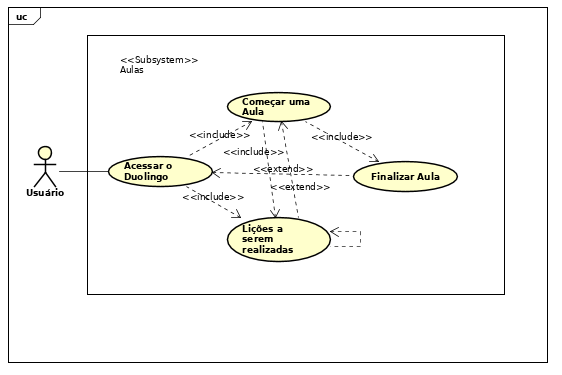
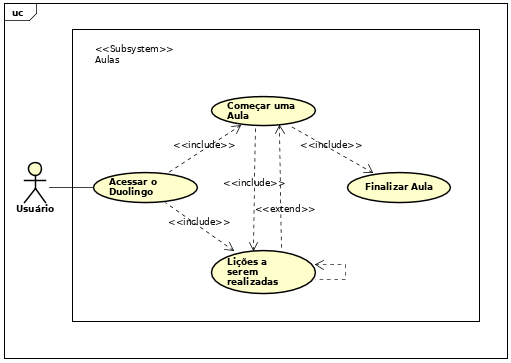
corrigido erros de formatação nos documentos de modelagem

Changed region(s): [[0.0, 0.0, 0.998, 1.0], [0.91, 0.8788, 0.9393, 0.9091], [0.91, 0.0606, 0.9393, 0.0909]]

diff --git a/docs/modelagem/Lexicos.md b/docs/modelagem/Lexicos.md
@@ -7,7 +7,7 @@ Trata-se de uma técnica que procura descrever símbolos de uma determinada ling
 Para definir os léxicos o grupo utilizou o seguinte modelo de _cards_ mostrado abaixo.
 
 |**LXX**|_Nome do Léxico._|
-|---|---|
+|:---:|:---:|
 |**Autor**|_Autor(es) do Léxico._|
 |**Classificação**|_Classificação do léxico (estado, objeto ou verbo)._|
 |**Sinônimos**|_Sinônimos do léxico no contexto._|
@@ -17,7 +17,7 @@ Para definir os léxicos o grupo utilizou o seguinte modelo de _cards_ mostrado 
 
 ## Léxico01
 |L01|Usuário|
-|---|---|
+|:---:|:---:|
 |**Autor**|Francisco Heronildo|
 |**Classificação**|--|
 |**Sinônimos**|Utilizador, utente, cliente, usador, usufruidor, desfrutador, usufrutuário, usufrutueiro.|
@@ -29,7 +29,7 @@ Para definir os léxicos o grupo utilizou o seguinte modelo de _cards_ mostrado 
 
 ## Léxico02
 |L02|Nível|
-|---|---|
+|:---:|:---:|
 |**Autor**|Lude Ribeiro|
 |**Classificação**|Estado|
 |**Sinônimos**|classe, categoria, posição, grau.|
@@ -40,7 +40,7 @@ Para definir os léxicos o grupo utilizou o seguinte modelo de _cards_ mostrado 
 
 ## Léxico03
 |L03|Curso|
-|---|---|
+|:---:|:---:|
 |**Autor**|Lude Ribeiro|
 |**Classificação**|Objeto|
 |**Sinônimos**|aula, formação|
@@ -51,7 +51,7 @@ Para definir os léxicos o grupo utilizou o seguinte modelo de _cards_ mostrado 
 
 ## Léxico04
 |L04|Ligas|
-|---|---|
+|:---:|:---:|
 |**Autor**|Lude Ribeiro|
 |**Classificação**|Objeto|
 |**Sinônimos**|campeonatos, competição|
@@ -63,7 +63,7 @@ Para definir os léxicos o grupo utilizou o seguinte modelo de _cards_ mostrado 
 
 ## Léxico05
 |L05|Amigos|
-|---|---|
+|:---:|:---:|
 |**Autor**|Lude Ribeiro|
 |**Classificação**|--|
 |**Sinônimos**|galera, gente, turma, relações, amizades, conhecidos.|
@@ -74,7 +74,7 @@ Para definir os léxicos o grupo utilizou o seguinte modelo de _cards_ mostrado 
 
 ## Léxico06
 |L06|Seção|
-|---|---|
+|:---:|:---:|
 |**Autor**|Lude Ribeiro|
 |**Classificação**|Objeto|
 |**Sinônimos**|Divisão, fracionamento, secionamento, parcela, parte, subdivisão|
@@ -85,7 +85,7 @@ Para definir os léxicos o grupo utilizou o seguinte modelo de _cards_ mostrado 
 
 ## Léxico07
 |L07|Perfil|
-|---|---|
+|:---:|:---:|
 |**Autor**|Lude Ribeiro|
 |**Classificação**|Objeto|
 |**Sinônimos**|Representação, retrato, descrição|
@@ -98,7 +98,7 @@ Para definir os léxicos o grupo utilizou o seguinte modelo de _cards_ mostrado 
 
 ## Léxico08
 |L08|Exercício|
-|---|---|
+|:---:|:---:|
 |**Autor**|Lude Ribeiro|
 |**Classificação**|Objeto|
 |**Sinônimos**|Atividade, dever, estudo, tarefa.|
@@ -108,7 +108,7 @@ Para definir os léxicos o grupo utilizou o seguinte modelo de _cards_ mostrado 
 
 ## Léxico09
 |L09|Cristais|
-|---|---|
+|:---:|:---:|
 |**Autor**|Brian Lui|
 |**Classificação**|Objeto|
 |**Sinônimos**|Dinheiro Virtual, Moeda Virtual, cédula, nota, ouro, prata.|
@@ -119,7 +119,7 @@ Para definir os léxicos o grupo utilizou o seguinte modelo de _cards_ mostrado 
 
 ## Léxico10
 |L10|XP|
-|---|---|
+|:---:|:---:|
 |**Autor**|Brian Lui|
 |**Classificação**|Estado|
 |**Sinônimos**|Experiência, pontos.|
@@ -130,7 +130,7 @@ Para definir os léxicos o grupo utilizou o seguinte modelo de _cards_ mostrado 
 
 ## Léxico11
 |L11|Ofensiva|
-|---|---|
+|:---:|:---:|
 |**Autor**|Brian Lui|
 |**Classificação**|Estado|
 |**Sinônimos**|Insígnia, emblema, distintivo, marca.|
@@ -141,7 +141,7 @@ Para definir os léxicos o grupo utilizou o seguinte modelo de _cards_ mostrado 
 
 ## Léxico12
 |L12|Nível de Coroa|
-|---|---|
+|:---:|:---:|
 |**Autor**|Brian Lui|
 |**Classificação**|Estado|
 |**Sinônimos**|Recurso, Nível, Categoria, Classe.|
@@ -157,7 +157,7 @@ Para definir os léxicos o grupo utilizou o seguinte modelo de _cards_ mostrado 
 
 ## Léxico13
 |L13|Lingot|
-|---|---|
+|:---:|:---:|
 |**Autor**|Brian Lui|
 |**Classificação**|Objeto|
 |**Sinônimos**|Moeda, Dinheiro, Ouro, Prata.|
@@ -169,7 +169,7 @@ Para definir os léxicos o grupo utilizou o seguinte modelo de _cards_ mostrado 
 
 ## Léxico14
 |L14|Energia|
-|---|---|
+|:---:|:---:|
 |**Autor**|Brian Lui|
 |**Classificação**|Estado|
 |**Sinônimos**|Atividade, Vigor, Desempenho, Prática.|
@@ -180,7 +180,7 @@ Para definir os léxicos o grupo utilizou o seguinte modelo de _cards_ mostrado 
 
 ## Léxico15
 |L15|Duolingo Plus|
-|---|---|
+|:---:|:---:|
 |**Autor**|Brian Lui|
 |**Classificação**|Estado|
 |**Sinônimos**|Experiência nova, Versão paga, Premium.|
@@ -192,7 +192,7 @@ Para definir os léxicos o grupo utilizou o seguinte modelo de _cards_ mostrado 
 
 ## Léxico16
 |L16|Health|
-|---|---|
+|:---:|:---:|
 |**Autor**|Brian Lui|
 |**Classificação**|Estado|
 |**Sinônimos**|Experiência, Vida, Saúde.|
@@ -204,7 +204,7 @@ Para definir os léxicos o grupo utilizou o seguinte modelo de _cards_ mostrado 
 
 ## Léxico17
 |L17|Unidade|
-|---|---|
+|:---:|:---:|
 |**Autor**|Brian Lui|
 |**Classificação**|Objeto|
 |**Sinônimos**|Parte, Elemento, Fração, Porção.|
@@ -215,7 +215,7 @@ Para definir os léxicos o grupo utilizou o seguinte modelo de _cards_ mostrado 
 
 ## Léxico18
 |L18|Lições|
-|---|---|
+|:---:|:---:|
 |**Autor**|Brian Lui|
 |**Classificação**|Objeto|
 |**Sinônimos**|Tarefas, Ensinamento, Matéria, Conteúdo.|
@@ -226,7 +226,7 @@ Para definir os léxicos o grupo utilizou o seguinte modelo de _cards_ mostrado 
 
 ## Léxico19
 |L19|Exercício|
-|---|---|
+|:---:|:---:|
 |**Autor**|Brian Lui|
 |**Classificação**|Objeto|
 |**Sinônimos**|Ação, Prática, Execução, Operação.|
@@ -237,7 +237,7 @@ Para definir os léxicos o grupo utilizou o seguinte modelo de _cards_ mostrado 
 
 ## Léxico20
 |L20|Árvore de Idioma|
-|---|---|
+|:---:|:---:|
 |**Autor**|Brian Lui|
 |**Classificação**|Objeto|
 |**Sinônimos**|Conjunto de Níveis, Conjunto de Unidades, Conjunto de Lições.|

diff --git a/docs/modelagem/EspecificacaoSuplementar.md b/docs/modelagem/EspecificacaoSuplementar.md
@@ -4,11 +4,9 @@
 
 A finalidade deste documento é explicitar os requisitos não funcionais da aplicação duolingo. Pegando todos aqueles requisitos que não foram pegos pelo Caso de uso. A fim de deixar os stakeholders atualizados quanto aos atributos de qualidade dos sistema abrangendo requisitos de usabilidade, confiabilidade, desempenho e suportabilidade.
 
-
 ### Escopo
 
 O escopo desta especificação suplementar se resume à aplicação duolingo  que é uma plataforma de ensino de idiomas gamificado com sistema de pontuação e ranking para deixar usuário motivado a continuar estudando.
-
 
 ### Definições
 
@@ -60,20 +58,17 @@ Rastro: Não possui
 
 ### Segurança no armazenamento de dados
 
-O Duolingo segue uma política de armazenamento de dados baseado em sua  Política de Privacidade em que o duolingo não compartilha dados pessoais, apenas informações básicas como nível e nickname a título de interação com outros usuários. A Política de Provacidade pode ser acessada [aqui](https://www.duolingo.com/privacy) 
+O Duolingo segue uma política de armazenamento de dados baseado em sua  Política de Privacidade em que o duolingo não compartilha dados pessoais, apenas informações básicas como nível e nickname a título de interação com outros usuários. A Política de Provacidade pode ser acessada [aqui](https://www.duolingo.com/privacy)
 
-Em relação a dados de pagamentos para usuário do duolingo plus a aplicação segue os padrões estabelecidos pela indústria como sistema de pagamento da Google Play e da App Store como intermediário. 
-
+Em relação a dados de pagamentos para usuário do duolingo plus a aplicação segue os padrões estabelecidos pela indústria como sistema de pagamento da Google Play e da App Store como intermediário.
 
 Rastro: Não possui
-
 
 ### Suporte a falhas
 
 O sistema deve fornecer ao usuário segurança em caso de falhas e proteger o usuário e seus dados sensíveis.
 
 Rastro: Não Possui
-
 
 ## Desempenho
 
@@ -101,7 +96,6 @@ A aplicação Duoligo pode ser acessada e utilizada via navegador em Desktop, ta
 
 Rastro: [Duolingo Web](https://www.duolingo.com)
 
-
 ### Android
 
 A aplicação mobile destinada a dispositivos Android deve ser utlizada no sistemas Android 6.0 ou versões superiores.
@@ -126,7 +120,7 @@ A aplicação mobile destinada a Dispositivos Windows deve ser utilizada no Sist
 
 Rastro: [Duolingo Microsoft Store](https://www.microsoft.com/pt-br/p/duolingo-cursos-gratis-de-ingles-espanhol-e-frances/9wzdncrcv5xn?activetab=pivot:regionofsystemrequirementstab)
 
-## Requisitos de Licenciamento 
+## Requisitos de Licenciamento
 
 ### Termos de Uso
 
@@ -142,8 +136,8 @@ Rastro: [Termo de Privacidade Duoligo](https://www.duolingo.com/privacy)
 
 |  | Especificação Suplementar |
 |----|------------|
-| **Versão** | Atual:1.0 (26/09/2019) |
-| **Descrição** | Especificação do requisitos não funcionais  |
+| **Versão** | Atual: 1.0 (26/09/2019) |
+| **Descrição** | Especificação do Requisitos Não Funcionais  |
 
 
 ## Referências

diff --git a/docs/modelagem/CasosDeUso.md b/docs/modelagem/CasosDeUso.md
@@ -62,7 +62,7 @@ Para criação dos casos de uso foram identificados e analisados os documentos d
 
 ### **UC04 - Escolher Cursos**
 
-![Caso-de-Uso-Cursos](../images/UseCase/uc-cursos.png)
+![Caso-de-Uso-Cursos](../images/UseCase/uc-cursos.jpg)
 
 | UC04                     | Cursos |
 | --------------           |:----------- |
@@ -95,9 +95,10 @@ Para criação dos casos de uso foram identificados e analisados os documentos d
 | **Pós condições**        | Usuário pode abandonar a aula e retomar depois |
 | **Rastreabilidade**      | ENT03 |
 
+
 ### **UC06 - Loja**
 
-![Caso-de-Uso-Loja](https://i.imgur.com/Xj8Wvdk.png)
+![Caso-de-Uso-Loja](../images/UseCase/uc-loja.png)
 
 | UC06                     | Loja |
 | --------------           |:----------- |
@@ -112,9 +113,10 @@ Para criação dos casos de uso foram identificados e analisados os documentos d
 | **Pós condições**        | Usuário tem que cumprir com o objetivo para Ganhar as Gemas |
 | **Rastreabilidade**      | ENT11 |
 
+
 ### **UC07 - Ranking**
 
-![Caso-de-Uso-Ranking](https://i.imgur.com/OWpOZzg.png)
+![Caso-de-Uso-Ranking](../images/UseCase/uc-ranking.png)
 
 | UC07                     | Ranking |
 | --------------           |:----------- |
@@ -132,7 +134,7 @@ Para criação dos casos de uso foram identificados e analisados os documentos d
 
 ### **UC08 - Configurações**
 
-![Imgur](https://i.imgur.com/HtoMjcY.png)
+![Caso-de-Uso-Configuracoes](../images/UseCase/uc-configuracoes.png)
 
 | UC08                     | Configurações |
 | --------------           |:----------- |
@@ -146,6 +148,12 @@ Para criação dos casos de uso foram identificados e analisados os documentos d
 | **Fluxos de exceção**    | --- |
 | **Pós condições**        | Usuário clica em "Done" |
 | **Rastreabilidade**      | Q06 |
+
+|  | Casos de Uso |
+|----|------------|
+| **Versão** | Atual: 1.0 (30/09/2019) |
+| **Descrição** | Especificação do Requisitos Funcionais  |
+
 
 ## Referências
 

diff --git a/docs/modelagem/Cenarios.md b/docs/modelagem/Cenarios.md
@@ -25,7 +25,6 @@ Para a contrução dos cenários foi proposto o seguinte modelo de _abstração_
 |**Exceção**   |
 |_Exceção do Cenário._|
 
-
 ## Cenário001
 |**Cenário001**|
 |--------------|
